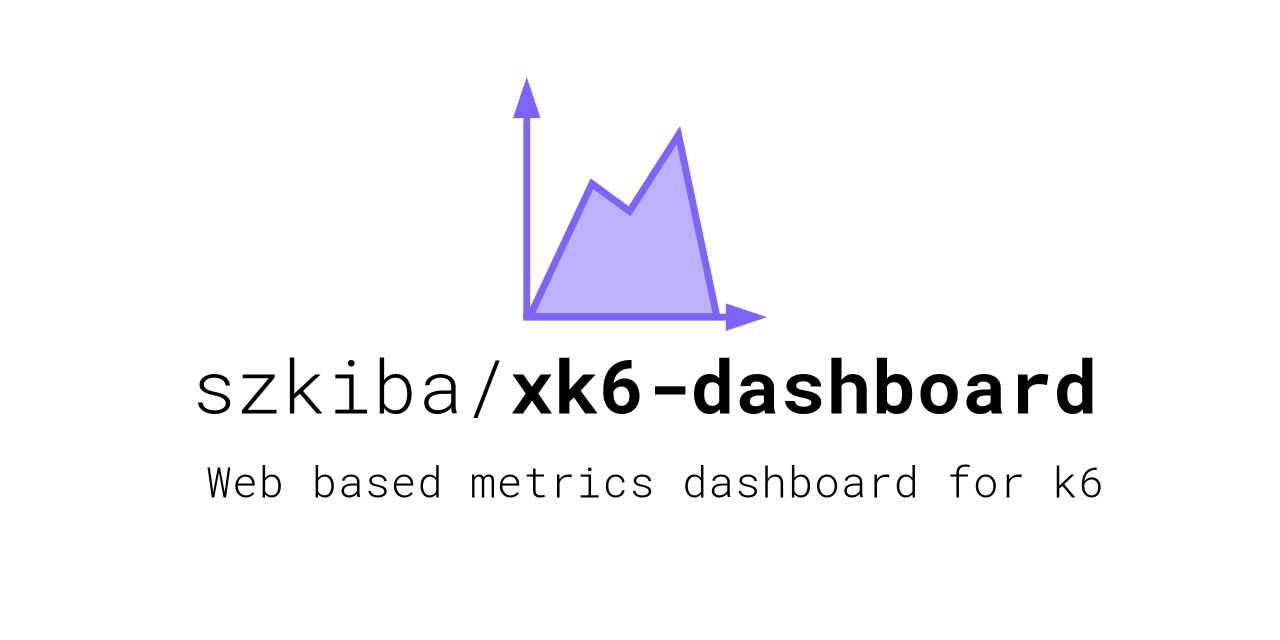
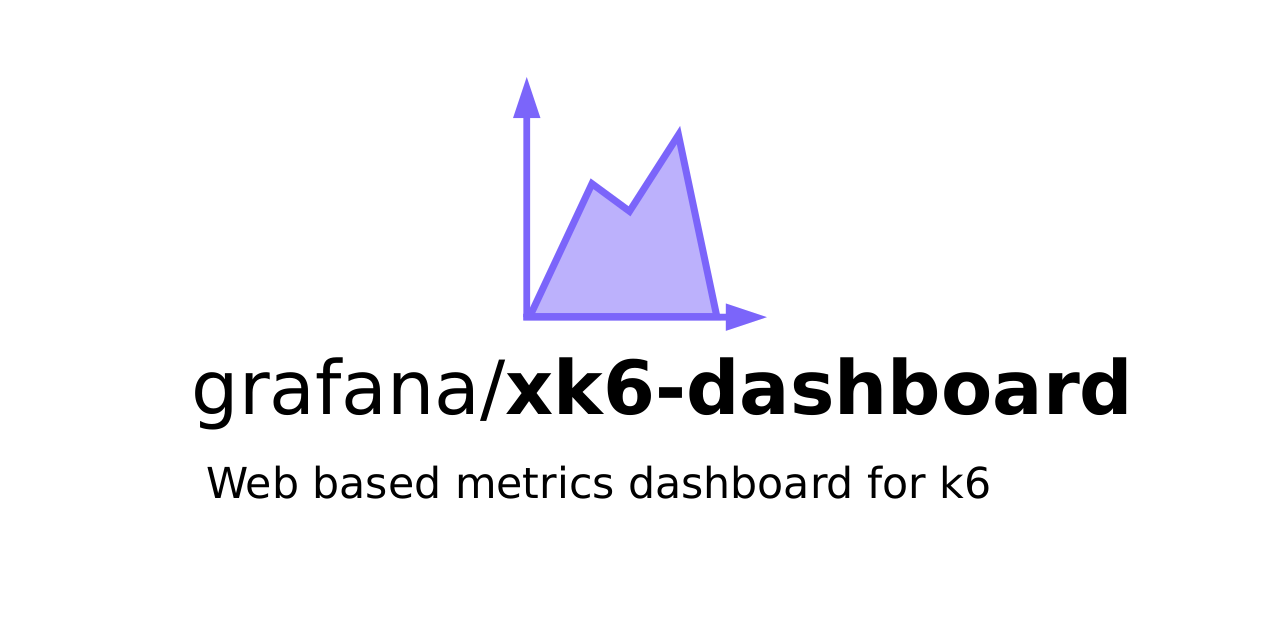
chore: Update repository references (from szkiba to grafana)

Changed region(s): [[0.125, 0.5625, 0.9062, 0.6875], [0.1562, 0.7188, 0.7812, 0.7812], [0.8125, 0.7188, 0.875, 0.7812]]

diff --git a/magefiles/magefile.go b/magefiles/magefile.go
@@ -37,7 +37,7 @@ func Test() error {
 }
 
 func Build() error {
-	return shellcmd.Command(`xk6 build --with github.com/szkiba/xk6-dashboard=.`).Run()
+	return shellcmd.Command(`xk6 build --with github.com/grafana/xk6-dashboard=.`).Run()
 }
 
 func It() error {

diff --git a/dashboard/extension_test.go b/dashboard/extension_test.go
@@ -13,9 +13,9 @@ import (
 	"testing"
 	"time"
 
+	"github.com/grafana/xk6-dashboard/assets"
 	"github.com/sirupsen/logrus"
 	"github.com/stretchr/testify/assert"
-	"github.com/szkiba/xk6-dashboard/assets"
 	"go.k6.io/k6/metrics"
 	"go.k6.io/k6/output"
 )

diff --git a/dashboard/web_test.go b/dashboard/web_test.go
@@ -13,9 +13,9 @@ import (
 	"strings"
 	"testing"
 
+	"github.com/grafana/xk6-dashboard/assets"
 	"github.com/sirupsen/logrus"
 	"github.com/stretchr/testify/assert"
-	"github.com/szkiba/xk6-dashboard/assets"
 )
 
 func Test_newWebServer(t *testing.T) {

diff --git a/register.go b/register.go
@@ -5,8 +5,8 @@
 package dashboard
 
 import (
-	"github.com/szkiba/xk6-dashboard/assets"
-	"github.com/szkiba/xk6-dashboard/dashboard"
+	"github.com/grafana/xk6-dashboard/assets"
+	"github.com/grafana/xk6-dashboard/dashboard"
 	"go.k6.io/k6/output"
 )
 

diff --git a/command.go b/command.go
@@ -7,8 +7,8 @@ package dashboard
 import (
 	"os"
 
-	"github.com/szkiba/xk6-dashboard/assets"
-	"github.com/szkiba/xk6-dashboard/dashboard"
+	"github.com/grafana/xk6-dashboard/assets"
+	"github.com/grafana/xk6-dashboard/dashboard"
 )
 
 func init() {

diff --git a/dashboard/brief_test.go b/dashboard/brief_test.go
@@ -7,9 +7,9 @@ import (
 	"strings"
 	"testing"
 
+	"github.com/grafana/xk6-dashboard/assets"
 	"github.com/sirupsen/logrus"
 	"github.com/stretchr/testify/assert"
-	"github.com/szkiba/xk6-dashboard/assets"
 )
 
 type errorWriter struct {

diff --git a/dashboard/replay_test.go b/dashboard/replay_test.go
@@ -10,8 +10,8 @@ import (
 	"testing"
 	"time"
 
+	"github.com/grafana/xk6-dashboard/assets"
 	"github.com/stretchr/testify/assert"
-	"github.com/szkiba/xk6-dashboard/assets"
 	"go.k6.io/k6/metrics"
 )
 

diff --git a/README.md b/README.md
@@ -1,6 +1,6 @@
-[![Go Report Card](https://goreportcard.com/badge/github.com/szkiba/xk6-dashboard)](https://goreportcard.com/report/github.com/szkiba/xk6-dashboard)
-[![GitHub Actions](https://github.com/szkiba/xk6-dashboard/workflows/Test/badge.svg)](https://github.com/szkiba/xk6-dashboard/actions?query=workflow%3ATest+branch%3Amaster)
-[![codecov](https://codecov.io/gh/szkiba/xk6-dashboard/branch/master/graph/badge.svg?token=ORDNEEZIV3)](https://codecov.io/gh/szkiba/xk6-dashboard)
+[![Go Report Card](https://goreportcard.com/badge/github.com/grafana/xk6-dashboard)](https://goreportcard.com/report/github.com/grafana/xk6-dashboard)
+[![GitHub Actions](https://github.com/grafana/xk6-dashboard/workflows/Test/badge.svg)](https://github.com/grafana/xk6-dashboard/actions?query=workflow%3ATest+branch%3Amaster)
+[![codecov](https://codecov.io/gh/grafana/xk6-dashboard/branch/master/graph/badge.svg?token=ORDNEEZIV3)](https://codecov.io/gh/grafana/xk6-dashboard)
 
 
 # xk6-dashboard <!-- omit in toc -->
@@ -61,7 +61,7 @@ The report can be saved in a single responsive HTML file.
 *Single file HTML report*
 ![k6 dashboard HTML report](screenshot/k6-dashboard-html-report.png)
 
-See [sample HTML report](screenshot/k6-dashboard-html-report.html) or try the [online version](https://raw.githack.com/szkiba/xk6-dashboard/master/screenshot/k6-dashboard-html-report.html)
+See [sample HTML report](screenshot/k6-dashboard-html-report.html) or try the [online version](https://raw.githack.com/grafana/xk6-dashboard/master/screenshot/k6-dashboard-html-report.html)
 
 **Table of Contents**
 
@@ -79,7 +79,7 @@ See [sample HTML report](screenshot/k6-dashboard-html-report.html) or try the [o
 
 ## Download
 
-You can download pre-built k6 binaries from [Releases](https://github.com/szkiba/xk6-dashboard/releases/) page. Check [Packages](https://github.com/szkiba/xk6-dashboard/pkgs/container/xk6-dashboard) page for pre-built k6 Docker images.
+You can download pre-built k6 binaries from [Releases](https://github.com/grafana/xk6-dashboard/releases/) page. Check [Packages](https://github.com/grafana/xk6-dashboard/pkgs/container/xk6-dashboard) page for pre-built k6 Docker images.
 
 ## Build
 
@@ -97,7 +97,7 @@ Then:
 
 2. Build the binary:
   ```bash
-  $ xk6 build --with github.com/szkiba/xk6-dashboard@latest
+  $ xk6 build --with github.com/grafana/xk6-dashboard@latest
   ```
 
 ## Usage
@@ -148,13 +148,13 @@ You can also use pre-built k6 image within a Docker container. In order to do th
 **Linux**
 
 ```plain
-docker run -v $(pwd):/scripts -p 5665:5665 -it --rm ghcr.io/szkiba/xk6-dashboard:latest run --out=dashboard /scripts/script.js
+docker run -v $(pwd):/scripts -p 5665:5665 -it --rm ghcr.io/grafana/xk6-dashboard:latest run --out=dashboard /scripts/script.js
 ```
 
 **Windows**
 
 ```plain
-docker run -v %cd%:/scripts -p 5665:5665 -it --rm ghcr.io/szkiba/xk6-dashboard:latest run --out=dashboard /scripts/script.js
+docker run -v %cd%:/scripts -p 5665:5665 -it --rm ghcr.io/grafana/xk6-dashboard:latest run --out=dashboard /scripts/script.js
 ```
 
 The dashboard will accessible on port `5665` with any web browser: http://127.0.0.1:5665
@@ -178,7 +178,7 @@ k6 dashboard replay --report test-report.html test-result.json
 *Example HTML report*
 ![k6 dashboard HTML report](screenshot/k6-dashboard-html-report.png)
 
-See [sample HTML report](screenshot/k6-dashboard-html-report.html) or try the [online version](https://raw.githack.com/szkiba/xk6-dashboard/master/screenshot/k6-dashboard-html-report.html)
+See [sample HTML report](screenshot/k6-dashboard-html-report.html) or try the [online version](https://raw.githack.com/grafana/xk6-dashboard/master/screenshot/k6-dashboard-html-report.html)
 
 ## Events
 
@@ -345,15 +345,15 @@ You can also use pre-built k6 image within a Docker container. In order to do th
 **Linux**
 
 ```plain
-docker run -v $(pwd):/work -v /tmp:/tmp/work -it --rm ghcr.io/szkiba/xk6-dashboard:latest run --out=json=/tmp/work/test_result.json.gz /work/script.js
-docker run -v /tmp:/tmp/work -p 5665:5665 -it --rm ghcr.io/szkiba/xk6-dashboard:latest dashboard replay /tmp/work/test_result.json.gz
+docker run -v $(pwd):/work -v /tmp:/tmp/work -it --rm ghcr.io/grafana/xk6-dashboard:latest run --out=json=/tmp/work/test_result.json.gz /work/script.js
+docker run -v /tmp:/tmp/work -p 5665:5665 -it --rm ghcr.io/grafana/xk6-dashboard:latest dashboard replay /tmp/work/test_result.json.gz
 ```
 
 **Windows**
 
 ```plain
-docker run -v %cd%:/work -v %USERPROFILE%\AppData\Local\Temp:/tmp/work -it --rm ghcr.io/szkiba/xk6-dashboard:latest run --out=json=/tmp/work/test_result.json.gz /work/script.js
-docker run -v %USERPROFILE%\AppData\Local\Temp:/tmp/work -p 5665:5665 -it --rm ghcr.io/szkiba/xk6-dashboard:latest dashboard replay /tmp/work/test_result.json.gz
+docker run -v %cd%:/work -v %USERPROFILE%\AppData\Local\Temp:/tmp/work -it --rm ghcr.io/grafana/xk6-dashboard:latest run --out=json=/tmp/work/test_result.json.gz /work/script.js
+docker run -v %USERPROFILE%\AppData\Local\Temp:/tmp/work -p 5665:5665 -it --rm ghcr.io/grafana/xk6-dashboard:latest dashboard replay /tmp/work/test_result.json.gz
 ```
 
 The dashboard will accessible on port `5665` with any web browser: http://127.0.0.1:5665
